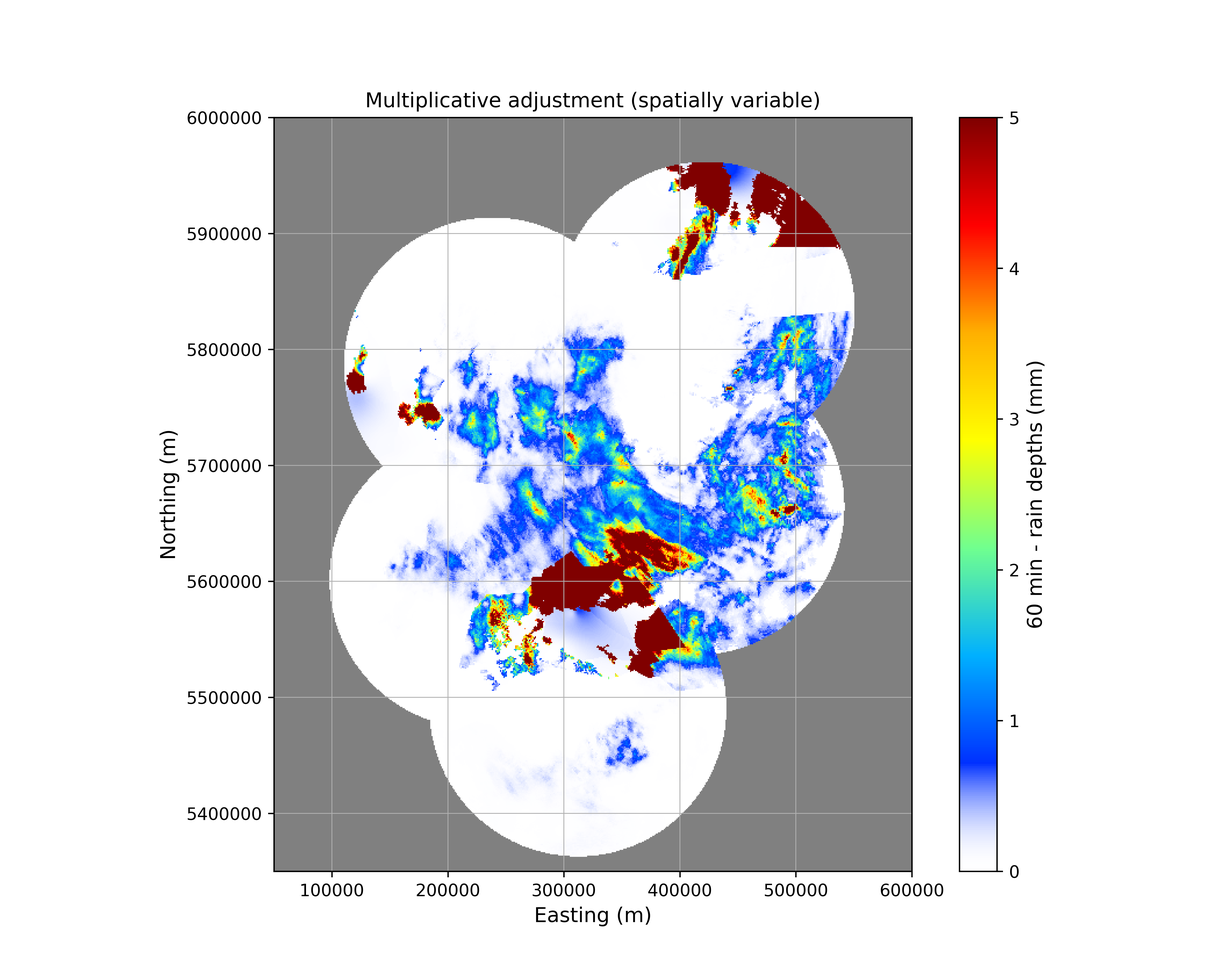
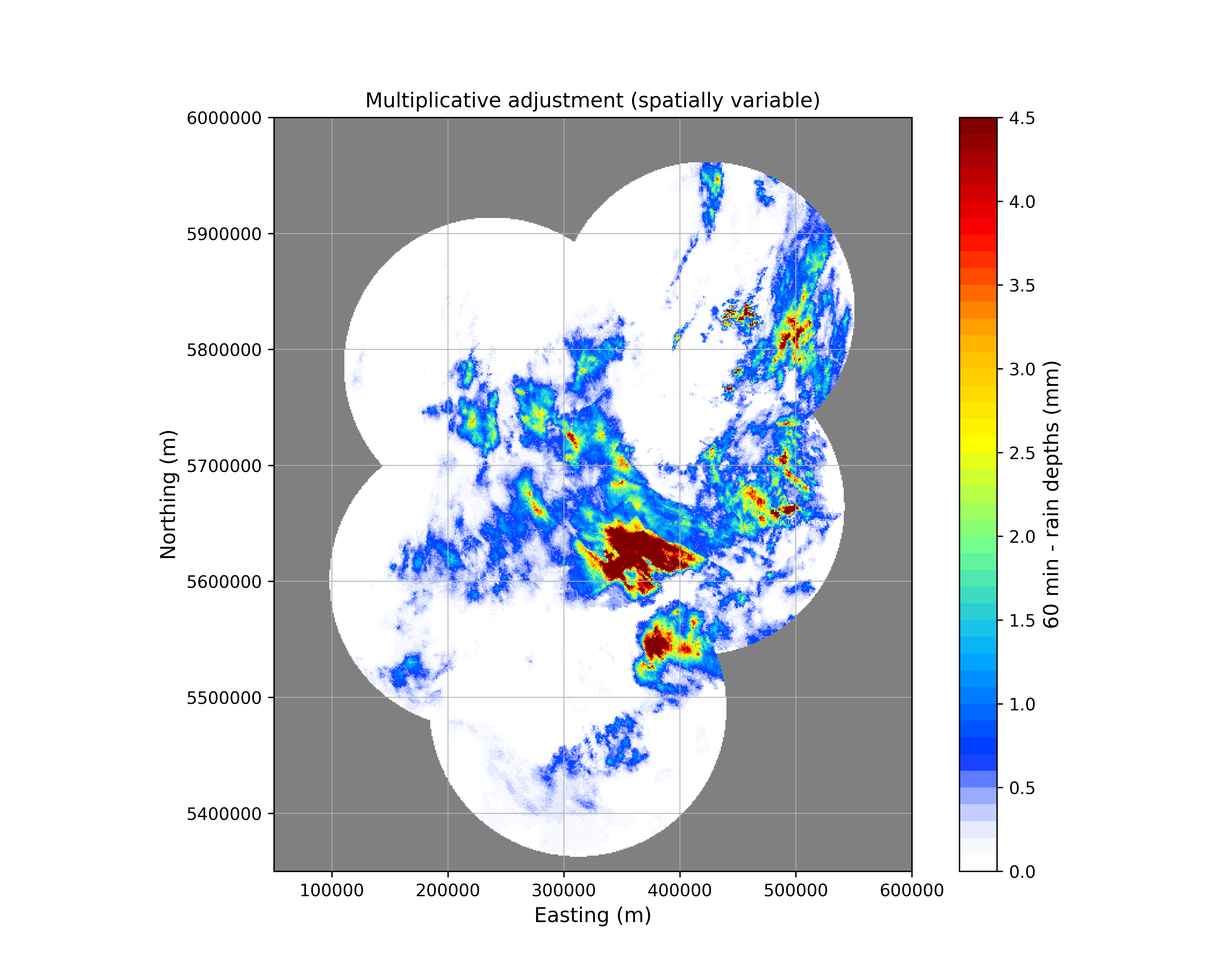
Add all_gauges list, put functions in func. Try parameters for adjustment

Changed region(s): [[0.2805, 0.1562, 0.7168, 0.8438], [0.8415, 0.375, 0.8727, 0.6562], [0.7792, 0.7812, 0.8415, 0.8438]]

diff --git a/code/example_1901091200.py b/code/example_1901091200.py
@@ -8,13 +8,11 @@ import numpy as np
 import wradlib as wrl
 import matplotlib.pylab as pl
 import matplotlib.pyplot as plt
-import wradlib.adjust as adjust
-import wradlib.verify as verify
 import wradlib.util as util
 from pyproj import Proj
 
 from colorbar import cm
-from func import get_depths, max_from_arrays
+from func import get_depths, max_from_arrays, plot_grid
 
 
 # Projections
@@ -47,6 +45,10 @@ ygrid = np.linspace(5350000, 6050000, 700)
 grid_xy = np.meshgrid(xgrid, ygrid)
 grid_xy = np.vstack((grid_xy[0].ravel(), grid_xy[1].ravel())).transpose()
 
+# Save grid information to files.
+np.savetxt("geodata/xgrid.txt", xgrid, fmt = "%.4f")
+np.savetxt("geodata/ygrid.txt", ygrid, fmt = "%.4f")
+
 def polar_to_utm(filename, radar_location_latlon):
     """
     Read data and calculate rain depths. 
@@ -76,46 +78,23 @@ for row in range(700):
             gridded_umd[row][col]=0
 
 # Merge radar domains.      
-def blending_radar_domains(domain, gridded_data):
-    """Choose element wise maximum. Keeps NaN's as NaN's if both are NaN."""
-    return max_from_arrays(domain, gridded_data)
-
 domain = np.empty((700,700))
 domain[:] = np.NaN
-domain = blending_radar_domains(domain, gridded_drs)
-domain = blending_radar_domains(domain, gridded_eis)
-domain = blending_radar_domains(domain, gridded_pro)
-domain = blending_radar_domains(domain, gridded_umd)
-domain = blending_radar_domains(domain, gridded_neu)
+domain = max_from_arrays(domain, gridded_drs)
+domain = max_from_arrays(domain, gridded_eis)
+domain = max_from_arrays(domain, gridded_pro)
+domain = max_from_arrays(domain, gridded_umd)
+domain = max_from_arrays(domain, gridded_neu)
 radar = domain
-
-# Save grid information to files.
-np.savetxt("geodata/xgrid.txt", xgrid, fmt = "%.4f")
-np.savetxt("geodata/ygrid.txt", ygrid, fmt = "%.4f")
-np.savetxt("geodata/griddata_60min.txt", radar, fmt = "%.4f")
+np.savetxt("geodata/radar.txt", radar, fmt = "%.4f")
 
 # Plot composite.
-fig = pl.figure(figsize=(10,8))
-ax = pl.subplot(111, aspect="equal") # aspect=111/71
-pm = pl.pcolormesh(xgrid, ygrid, radar, cmap=cm, vmax=4.5)
-cbar = pl.colorbar(pm)
-cbar.set_label("60 min - rain depths (mm)", fontsize=12)
-cm.set_bad(color='grey')
-ax.ticklabel_format(useOffset=False, style='plain')
-pl.xlabel("Easting (m)")
-pl.ylabel("Northing (m)")
-# pl.xlim(min(xgrid), max(xgrid))
-# pl.ylim(min(ygrid), max(ygrid))
-pl.xlim(50000, 600000)
-pl.ylim(min(ygrid), 6000000)
-pl.grid(lw=0.5)
-pl.xlabel("Easting", fontsize=12)
-pl.ylabel("Northing", fontsize=12)
-pl.title('09-01-2019 12:00 UTC\nDWD RADAR composite\nUTM zone 33N (EPSG 32633)', fontsize=12)
-pl.savefig(f"images/composite_{filename_drs[15:25]}_utm60min", dpi=600)
+plot_grid(radar, xgrid, ygrid, plottitle='09-01-2019 12:00 UTC\nDWD RADAR composite\nUTM zone 33N (EPSG 32633)', 
+          filename=f"composite_{filename_drs[15:25]}_utm60min")
 
-# Gauges of interest
+# Gauge lists.
 gauges_in_domain = ['00029', '00046', '00053', '00073', '00087', '00096', '00103', '00118', '00124', '00131', '00151', '00152', '00164', '00191', '00198', '00213', '00222', '00227', '00240', '00246', '00282', '00287', '00294', '00303', '00314', '00320', '00336', '00359', '00360', '00378', '00379', '00399', '00400', '00403', '00410', '00420', '00427', '00430', '00433', '00445', '00504', '00505', '00542', '00550', '00551', '00567', '00589', '00622', '00630', '00633', '00656', '00662', '00714', '00721', '00735', '00753', '00775', '00797', '00807', '00812', '00814', '00815', '00840', '00848', '00853', '00863', '00867', '00874', '00880', '00885', '00896', '00962', '00966', '00970', '00974', '00991', '01001', '01039', '01048', '01050', '01051', '01052', '01067', '01095', '01107', '01119', '01139', '01158', '01161', '01166', '01170', '01207', '01210', '01270', '01278', '01279', '01282', '01297', '01320', '01332', '01350', '01357', '01358', '01392', '01411', '01435', '01441', '01458', '01473', '01497', '01511', '01526', '01542', '01544', '01573', '01578', '01587', '01605', '01607', '01612', '01684', '01689', '01691', '01717', '01721', '01735', '01744', '01770', '01793', '01801', '01810', '01830', '01832', '01846', '01847', '01848', '01869', '01900', '01957', '01997', '02011', '02012', '02014', '02039', '02044', '02064', '02066', '02119', '02152', '02171', '02174', '02175', '02233', '02252', '02261', '02274', '02278', '02294', '02323', '02372', '02376', '02409', '02410', '02431', '02438', '02444', '02503', '02531', '02538', '02541', '02550', '02556', '02562', '02597', '02600', '02618', '02625', '02627', '02641', '02662', '02673', '02680', '02700', '02704', '02709', '02733', '02750', '02779', '02794', '02839', '02856', '02860', '02878', '02884', '02890', '02925', '02928', '02932', '02951', '02958', '02985', '02992', '02997', '03012', '03015', '03034', '03080', '03083', '03093', '03094', '03121', '03126', '03146', '03147', '03148', '03153', '03158', '03166', '03175', '03179', '03181', '03204', '03205', '03207', '03220', '03226', '03231', '03234', '03248', '03271', '03279', '03289', '03297', '03304', '03308', '03348', '03364', '03376', '03426', '03429', '03435', '03438', '03445', '03473', '03478', '03491', '03497', '03509', '03513', '03525', '03536', '03552', '03558', '03560', '03571', '03572', '03607', '03617', '03650', '03667', '03668', '03681', '03700', '03739', '03740', '03811', '03821', '03836', '03844', '03875', '03881', '03886', '03906', '03911', '03946', '03948', '03950', '03967', '03975', '03987', '03999', '04000', '04016', '04023', '04032', '04036', '04052', '04080', '04104', '04109', '04135', '04185', '04218', '04224', '04248', '04280', '04282', '04290', '04303', '04354', '04367', '04377', '04387', '04412', '04445', '04464', '04469', '04480', '04485', '04493', '04494', '04501', '04546', '04548', '04555', '04559', '04566', '04592', '04599', '04601', '04603', '04605', '04618', '04637', '04642', '04651', '04694', '04748', '04752', '04763', '04790', '04801', '04813', '04816', '04818', '04878', '04911', '04912', '04958', '04978', '04982', '04984', '04997', '05002', '05013', '05017', '05023', '05034', '05036', '05046', '05084', '05109', '05142', '05146', '05148', '05149', '05158', '05230', '05279', '05285', '05303', '05335', '05349', '05371', '05382', '05395', '05397', '05401', '05419', '05424', '05440', '05484', '05490', '05546', '05548', '05555', '05573', '05600', '05614', '05629', '05643', '05663', '05676', '05684', '05705', '05729', '05745', '05750', '05762', '05763', '05779', '05797', '05800', '05814', '05825', '05854', '05943', '06093', '06109', '06129', '06161', '06170', '06182', '06191', '06195', '06200', '06215', '06216', '06249', '06252', '06265', '06266', '06268', '06269', '06270', '06271', '06272', '06273', '06281', '06282', '06287', '06296', '06298', '06305', '06312', '06314', '06336', '06338', '06347', '07075', '07077', '07079', '07099', '07244', '07285', '07321', '07323', '07326', '07327', '07328', '07329', '07333', '07334', '07335', '07337', '07343', '07350', '07351', '07361', '07364', '07367', '07368', '07370', '07372', '07389', '07393', '07394', '07395', '07418', '07419', '07420', '07421', '07423', '07428', '07430', '07432', '07500', '13654', '13662', '13675', '13688', '13699', '13710', '13711', '13712', '13774', '13776', '13777', '14138', '14301', '15512', '15832', '15833', '15834', '15836', '15839', '15840', '15843', '15845', '19126', '19140', '19225', '19246', '19270', '19271', '19272', '19275', '19299', '19361', '19362']
+all_gauges = ['00003','00020','00029','00044','00046','00047','00053','00071','00073','00078','00087','00091','00096','00103','00118','00124','00130','00131','00142','00146','00150','00151','00152','00154','00158','00161','00164','00167','00183','00191','00194','00198','00200','00205','00211','00213','00216','00217','00222','00227','00232','00240','00246','00257','00259','00269','00275','00279','00282','00287','00292','00294','00298','00301','00303','00310','00312','00314','00316','00320','00323','00326','00330','00336','00342','00348','00357','00359','00360','00377','00378','00379','00384','00389','00390','00399','00400','00403','00410','00420','00427','00430','00433','00443','00445','00450','00460','00468','00479','00498','00504','00505','00522','00523','00535','00542','00550','00551','00554','00555','00561','00567','00589','00591','00596','00599','00603','00604','00613','00617','00622','00630','00633','00644','00653','00656','00662','00677','00684','00685','00691','00701','00704','00714','00721','00723','00730','00731','00732','00735','00753','00755','00757','00760','00775','00789','00791','00796','00797','00801','00807','00808','00812','00814','00815','00817','00837','00839','00840','00848','00853','00856','00857','00863','00867','00871','00874','00880','00885','00891','00896','00902','00917','00921','00922','00931','00933','00934','00942','00953','00961','00962','00963','00966','00970','00974','00977','00978','00979','00983','00985','00988','00989','00991','01001','01014','01018','01023','01024','01030','01039','01046','01048','01050','01051','01052','01055','01056','01067','01072','01078','01089','01093','01094','01095','01103','01107','01119','01130','01132','01139','01158','01161','01166','01170','01176','01197','01200','01207','01210','01214','01216','01219','01223','01224','01237','01239','01241','01246','01253','01255','01262','01266','01270','01278','01279','01282','01290','01297','01300','01303','01304','01313','01315','01320','01327','01332','01336','01343','01346','01350','01357','01358','01366','01392','01411','01420','01424','01435','01441','01443','01451','01458','01468','01473','01495','01497','01503','01511','01526','01538','01542','01544','01550','01559','01561','01573','01578','01580','01584','01587','01590','01595','01598','01602','01605','01607','01612','01639','01642','01645','01650','01669','01684','01689','01691','01694','01711','01717','01721','01735','01736','01744','01750','01757','01759','01766','01769','01770','01792','01793','01801','01803','01810','01813','01814','01827','01830','01832','01844','01846','01847','01848','01851','01863','01869','01870','01886','01888','01900','01937','01938','01950','01957','01964','01975','01981','01997','02011','02012','02014','02023','02027','02039','02044','02050','02051','02064','02066','02072','02074','02080','02088','02109','02110','02115','02119','02152','02159','02167','02170','02171','02174','02175','02184','02201','02211','02213','02222','02233','02236','02252','02254','02261','02272','02274','02278','02290','02292','02293','02294','02306','02319','02323','02329','02331','02355','02362','02372','02376','02387','02388','02405','02409','02410','02412','02415','02416','02429','02431','02438','02444','02453','02465','02473','02480','02483','02485','02486','02497','02500','02503','02518','02522','02531','02532','02538','02541','02542','02546','02550','02556','02559','02562','02564','02575','02577','02578','02595','02597','02600','02601','02618','02619','02625','02627','02629','02638','02641','02660','02662','02667','02673','02677','02680','02689','02700','02703','02704','02708','02709','02712','02718','02733','02734','02740','02749','02750','02759','02763','02779','02787','02792','02794','02810','02812','02814','02822','02825','02839','02843','02844','02850','02856','02860','02878','02880','02884','02885','02890','02900','02907','02925','02928','02932','02947','02951','02953','02958','02968','02985','02988','02992','02996','02997','02999','03012','03015','03023','03024','03028','03031','03032','03034','03042','03044','03080','03081','03083','03086','03093','03094','03098','03121','03126','03136','03137','03146','03147','03148','03153','03155','03158','03164','03166','03167','03175','03179','03190','03192','03196','03204','03205','03207','03215','03217','03220','03226','03231','03234','03238','03244','03247','03248','03257','03258','03263','03268','03271','03272','03278','03279','03280','03284','03287','03289','03293','03297','03304','03307','03308','03319','03321','03339','03340','03342','03348','03362','03364','03366','03376','03379','03402','03413','03418','03426','03429','03432','03435','03438','03440','03442','03443','03445','03448','03473','03478','03485','03490','03491','03497','03499','03509','03513','03519','03525','03527','03535','03536','03538','03540','03545','03552','03558','03560','03564','03571','03572','03584','03589','03591','03602','03607','03612','03616','03617','03621','03625','03631','03650','03660','03667','03668','03677','03679','03681','03690','03700','03704','03714','03722','03729','03730','03733','03734','03739','03740','03761','03791','03795','03802','03811','03815','03820','03821','03836','03844','03848','03849','03853','03857','03875','03881','03886','03897','03904','03906','03911','03913','03919','03925','03927','03939','03945','03946','03948','03950','03960','03965','03967','03969','03972','03975','03987','03999','04000','04016','04017','04023','04024','04026','04032','04036','04039','04052','04063','04065','04078','04080','04090','04094','04101','04104','04109','04112','04127','04132','04134','04135','04150','04154','04159','04160','04167','04169','04175','04177','04185','04189','04211','04218','04219','04224','04230','04248','04251','04261','04271','04275','04280','04282','04287','04288','04290','04294','04300','04301','04303','04308','04310','04313','04315','04323','04336','04349','04351','04352','04354','04367','04368','04371','04374','04377','04387','04393','04400','04405','04411','04412','04413','04441','04445','04464','04466','04469','04480','04485','04488','04490','04493','04494','04501','04508','04546','04548','04555','04559','04560','04566','04567','04579','04592','04594','04599','04600','04601','04602','04603','04605','04617','04618','04623','04625','04637','04641','04642','04650','04651','04655','04666','04672','04683','04692','04694','04703','04704','04706','04709','04710','04712','04719','04741','04745','04748','04752','04755','04760','04763','04790','04801','04803','04816','04818','04827','04841','04849','04850','04857','04858','04878','04881','04883','04887','04896','04911','04912','04920','04926','04928','04931','04946','04958','04978','04982','04984','04997','05000','05002','05009','05013','05014','05017','05023','05029','05034','05036','05046','05047','05055','05057','05058','05059','05064','05084','05086','05097','05099','05100','05103','05109','05111','05123','05132','05133','05142','05146','05148','05149','05155','05158','05161','05162','05169','05171','05174','05187','05206','05209','05225','05227','05229','05230','05240','05262','05263','05275','05276','05277','05279','05280','05285','05294','05297','05300','05303','05335','05347','05349','05360','05371','05374','05382','05395','05397','05401','05404','05405','05416','05419','05424','05426','05433','05435','05440','05444','05453','05468','05470','05480','05484','05490','05501','05508','05511','05513','05516','05518','05524','05538','05541','05542','05546','05548','05555','05559','05562','05573','05600','05614','05616','05619','05625','05629','05635','05643','05646','05663','05664','05676','05678','05684','05688','05692','05699','05705','05711','05717','05719','05721','05724','05729','05731','05732','05733','05745','05750','05758','05762','05763','05767','05779','05793','05797','05800','05814','05822','05825','05839','05840','05854','05856','05871','05906','05930','05941','05943','05985','05986','05987','05988','05989','05990','05991','05992','05993','05994','06041','06042','06043','06044','06045','06046','06047','06048','06049','06050','06051','06052','06053','06058','06060','06061','06064','06067','06093','06100','06105','06109','06129','06157','06158','06159','06161','06163','06169','06170','06182','06186','06190','06191','06195','06197','06199','06200','06201','06203','06215','06216','06217','06242','06243','06244','06245','06246','06247','06249','06252','06255','06256','06257','06258','06259','06260','06262','06263','06264','06265','06266','06268','06269','06270','06271','06272','06273','06275','06276','06279','06280','06281','06282','06283','06284','06285','06286','06287','06288','06290','06293','06294','06295','06296','06297','06298','06299','06300','06301','06303','06305','06307','06310','06312','06313','06314','06315','06316','06317','06318','06319','06320','06321','06322','06323','06324','06325','06326','06327','06328','06329','06330','06331','06332','06333','06334','06336','06337','06338','06340','06341','06342','06343','06344','06346','06347','07075','07077','07078','07079','07099','07104','07105','07106','07135','07138','07139','07140','07187','07224','07226','07227','07228','07229','07230','07231','07233','07234','07235','07237','07238','07239','07240','07241','07242','07243','07244','07285','07287','07298','07319','07321','07322','07323','07324','07325','07326','07327','07328','07329','07330','07331','07333','07334','07335','07337','07341','07343','07344','07350','07351','07361','07364','07367','07368','07369','07370','07372','07373','07374','07375','07378','07380','07382','07389','07393','07394','07395','07396','07403','07410','07412','07418','07419','07420','07421','07423','07424','07425','07427','07428','07429','07430','07431','07432','07433','07434','07436','07487','07488','07489','07490','07491','07492','07493','07494','07495','07496','07497','07498','07499','07500','13654','13662','13669','13670','13671','13672','13674','13675','13687','13688','13689','13694','13695','13696','13698','13699','13700','13710','13711','13712','13713','13715','13716','13774','13776','13777','13778','13779','13780','13912','13918','13965','13968','14006','14007','14008','14009','14010','14011','14013','14014','14015','14016','14017','14018','14019','14020','14021','14022','14023','14024','14025','14026','14027','14028','14029','14030','14031','14032','14033','14034','14035','14036','14037','14038','14042','14052','14063','14065','14072','14108','14109','14138','14139','14142','14143','14144','14145','14146','14147','14148','14149','14150','14151','14152','14153','14154','14155','14156','14157','14158','14159','14164','14165','14166','14167','14168','14169','14170','14171','14172','14173','14174','14175','14176','14177','14178','14179','14180','14181','14182','14183','14184','14185','14186','14187','14301','14350','14351','15000','15003','15009','15011','15012','15013','15014','15015','15016','15039','15040','15045','15155','15156','15161','15170','15185','15187','15198','15201','15207','15212','15249','15444','15448','15478','15490','15512','15514','15517','15523','15555','15561','15569','15570','15810','15822','15831','15832','15834','15835','15838','15839','15840','15842','15843','15845','15850','15851','15930','15958','15986','15988','15989','19100']
 
 # Read gauge data.
 def latlon_to_utm33N(lon, lat):
@@ -139,7 +118,7 @@ for file in gauge_files:
                 line_split = [x.strip() for x in line.split(';')]
                 if "2019010912" in line_split[1]:
                     g_id = line_split[0].zfill(5)
-                    if g_id in gauges_in_domain:
+                    if g_id in all_gauges:
                         gaugedata["id"].append(g_id)
                         gaugedata["prec_mm"].append(float(line_split[3]))
 
@@ -192,7 +171,7 @@ pl.xlim(50000, 600000)
 pl.ylim(min(ygrid), 6000000)
 pl.grid(lw=0.5)
 pl.title('09-01-2019 12:00 UTC\nDWD gauge data\nUTM zone 33N (EPSG 32633)', fontsize=12)
-pl.savefig(f"images/gaugedata_{filename_drs[15:25]}_utm60min", dpi=600)
+pl.savefig(f"images/gaugedata_1901091200_60min", dpi=600)
 
 # Interpolate gauge array.
 all_indices = ([[x, y] for x in range(700) for y in range(700)])
@@ -205,7 +184,7 @@ gauge_array_int = gauge_array_int.reshape((700,700))
 # Plot interpolated gauges.
 fig = pl.figure(figsize=(10,8))
 ax = pl.subplot(111, aspect="equal")
-pm = pl.pcolormesh(xgrid, ygrid, gauge_array_int, cmap=cm, vmax=max(gaugedata["prec_mm"]))
+pm = pl.pcolormesh(xgrid, ygrid, gauge_array_int, cmap=cm, vmin=0, vmax=max(gaugedata["prec_mm"]))
 cbar = pl.colorbar(pm)
 cm.set_bad(color='grey')
 cbar.set_label("60 min - rain depths (mm)", fontsize=12)
@@ -216,7 +195,7 @@ pl.xlim(50000, 600000)
 pl.ylim(min(ygrid), 6000000)
 pl.grid(lw=0.5)
 pl.title('09-01-2019 12:00 UTC\nDWD gauge data\nUTM zone 33N (EPSG 32633)', fontsize=12)
-pl.savefig(f"images/gaugedata_{filename_drs[15:25]}_utm60min_interpol_cub", dpi=600)
+pl.savefig(f"images/gaugedata_1901091200_60min_interpol", dpi=600)
 
 # radar data: 1D-array, radar coords: 2D-array
 radar_1d = radar.reshape([700*700]) # 1D-array (700*700) for radar data
@@ -230,66 +209,72 @@ obs_coords = np.array([list(elem) for elem in obs_coords])
 print("number of obs:", len(obs))
 
 # Apply adjustment methods adn reshape 1D-array to 2D-array.
-addadjuster = adjust.AdjustAdd(obs_coords, radar_coords)
+addadjuster = wrl.adjust.AdjustAdd(obs_coords, radar_coords, nnear_raws=3, minval=0)
 addadjusted = addadjuster(obs, radar_1d)
 addadjusted_arr = addadjusted.reshape(gridshape)
 
-multadjuster = adjust.AdjustMultiply(obs_coords, radar_coords)
+multadjuster = wrl.adjust.AdjustMultiply(obs_coords, radar_coords, nnear_raws=3, minval=0.01)
 multadjusted = multadjuster(obs, radar_1d) 
 multadjusted_arr = multadjusted.reshape(gridshape)
 
-mfbadjuster = adjust.AdjustMFB(obs_coords, radar_coords)
+mfbadjuster = wrl.adjust.AdjustMFB(obs_coords, radar_coords)
 mfbadjusted = mfbadjuster(obs, radar_1d)
 mfbadjusted_arr = mfbadjusted.reshape(gridshape)
 
-mixadjuster = adjust.AdjustMixed(obs_coords, radar_coords)
+mixadjuster = wrl.adjust.AdjustMixed(obs_coords, radar_coords, nnear_raws=3, minval=0)
 mixadjusted = mixadjuster(obs, radar_1d)
 mixadjusted_arr = mixadjusted.reshape(gridshape)
 
-def plot_grid(data, plottitle, filename):
-    """ Plot gridded data."""
-    fig = pl.figure(figsize=(10, 8))
-    ax = pl.subplot(111, aspect="equal")
-    pl.xlim(min(xgrid), max(xgrid))
-    pl.ylim(min(ygrid), max(ygrid))
-    pm = ax.pcolormesh(xgrid, ygrid, data, cmap=cm, vmin=0, vmax=4.5)
-    cbar = pl.colorbar(pm)
-    cm.set_bad(color='grey')
-    cbar.set_label("60 min - rain depths (mm)", fontsize=12)
-    pl.xlabel("Easting (m)", fontsize=12)
-    pl.ylabel("Northing (m)", fontsize=12)
-    ax.ticklabel_format(useOffset=False, style='plain')
-    pl.xlim(50000, 600000)
-    pl.ylim(min(ygrid), 6000000)
-    pl.grid(lw=0.5)
-    pl.title(plottitle, fontsize=12)
-    # pl.savefig("images/"+filename, dpi=600)
-
 # Plot adjusted radar data.
-plot_grid(addadjusted_arr, "Additive adjustment (spatially variable)", "adjustment_add")
-plot_grid(multadjusted_arr, "Multiplicative adjustment (spatially variable)", "adjustment_mul")
-plot_grid(mfbadjusted_arr, "Additive adjustment (spatially uniform)", "adjustment_mfb")
-plot_grid(mixadjusted_arr, "Additive-multiplicative-mixed adjustment (spatially variable)", "adjustment_mixed")
+plot_grid(addadjusted_arr, xgrid, ygrid, "Additive adjustment (spatially variable)", "adjustment_add")
+plot_grid(multadjusted_arr, xgrid, ygrid,"Multiplicative adjustment (spatially variable)", "adjustment_mul")
+plot_grid(mfbadjusted_arr, xgrid, ygrid,"Multiplicative adjustment (spatially uniform)", "adjustment_mfb")
+plot_grid(mixadjusted_arr, xgrid, ygrid,"Additive-multiplicative-mixed adjustment (spatially variable)", "adjustment_mixed")
 
 # Plot errors.
-plot_grid(addadjusted_arr - radar, "Additive error (spatially variable)", "adjustment_add_diff")
-plot_grid(multadjusted_arr - radar, "Multiplicative error (spatially variable)", "adjustment_mul_diff")
-plot_grid(mfbadjusted_arr - radar, "adjustment_mfb_diff (spatially uniform)", "adjustment_mfb_diff")
-plot_grid(mixadjusted_arr - radar, "Additive-multiplicative-mixed error (spatially variable)", "adjustment_mixed_diff")
+plot_grid(addadjusted_arr - radar, xgrid, ygrid,"Additive error (spatially variable)", "adjustment_add_diff")
+plot_grid(multadjusted_arr - radar, xgrid, ygrid,"Multiplicative error (spatially variable)", "adjustment_mul_diff")
+plot_grid(mfbadjusted_arr - radar, xgrid, ygrid,"adjustment_mfb_diff (spatially uniform)", "adjustment_mfb_diff")
+plot_grid(mixadjusted_arr - radar, xgrid, ygrid,"Additive-multiplicative-mixed error (spatially variable)", "adjustment_mixed_diff")
 
-# Evaluation
+# Cumulative distribution function of gauges and radar.
 fig = pl.figure(figsize=(10, 6))
-n_gauges = plt.hist(obs, 200, density=True, histtype="step", cumulative=True, label="gauges", log=False, linewidth=1.5)
-n_radar = plt.hist(radar_1d, 200, density=True, histtype="step", cumulative=True, label="raw radar", log=False, linewidth=1.5)
-n_add = plt.hist(addadjusted, 200, density=True, histtype="step", cumulative=True, label="add (var)", log=False, linewidth=1.5)
-n_mul = plt.hist(multadjusted, 200, density=True, histtype="step", cumulative=True, label="mul (var)", log=False, linewidth=1.5)
-n_mulconst = plt.hist(mfbadjusted, 200, density=True, histtype="step", cumulative=True, label="mul (const)", log=False, linewidth=1.5)
-n_mix = plt.hist(mixadjusted, 200, density=True, histtype="step", cumulative=True, label="add-mul-mix (var)", log=False, linewidth=1.5)
+n_gauges = plt.hist(obs, 50, density=True, histtype="step", cumulative=True, label="gauges", log=False, linewidth=1.5)
+n_radar = plt.hist(np.round(radar_1d, decimals=1), 50, density=True, histtype="step", cumulative=True, label="raw radar", log=False, linewidth=1.5)
 plt.legend(loc="lower right")
 plt.grid()
 plt.xlim([0,4.5])
 plt.ylim([0.4,1])
-plt.title("precipitation CDF of raw radar data and different adjustment methods", fontsize=12)
-plt.savefig("images/adjustment_eval", dpi=600)
+plt.xlabel("Precipitation [mm]", fontsize=12)
+plt.ylabel("CDF", fontsize=12)
+plt.savefig("images/adjustment_eval1", dpi=600)
+
+# Cumulative distribution function of gauges and adjustment methods.
+fig = pl.figure(figsize=(10, 6))
+n_radar = plt.hist(np.round(radar_1d, decimals=1), 200, density=True, histtype="step", cumulative=True, label="raw radar", log=False, linewidth=1.5)
+n_gauges = plt.hist(obs, 200, density=True, histtype="step", cumulative=True, label="gauges", log=False, linewidth=1.5)
+n_add = plt.hist(np.round(addadjusted, decimals=1), 200, density=True, histtype="step", cumulative=True, label="add (var)", log=False, linewidth=1.5)
+n_mul = plt.hist(np.round(multadjusted, decimals=1), 200, density=True, histtype="step", cumulative=True, label="mul (var)", log=False, linewidth=1.5)
+n_mulconst = plt.hist(np.round(mfbadjusted, decimals=1), 200, density=True, histtype="step", cumulative=True, label="mul (const)", log=False, linewidth=1.5)
+n_mix = plt.hist(np.round(mixadjusted, decimals=1), 200, density=True, histtype="step", cumulative=True, label="add-mul-mix (var)", log=False, linewidth=1.5)
+plt.legend(loc="lower right")
+plt.grid()
+plt.xlim([0,4.5])
+plt.ylim([0.4,1])
+plt.xlabel("Precipitation [mm]", fontsize=12)
+plt.ylabel("CDF", fontsize=12)
+plt.savefig("images/adjustment_eval2", dpi=600)
+
+# Cumulative distribution function of errors.
+fig = pl.figure(figsize=(10, 6))
+plt.hist(np.round(addadjusted - radar_1d, decimals=1), 100, density=True, label="add error", log=False, linewidth=1.5)
+plt.hist(np.round(multadjusted - radar_1d, decimals=1), 100, density=True, label="mul error", log=False, linewidth=1.5)
+plt.hist(np.round(mixadjusted - radar_1d, decimals=1), 100, density=True, label="mix error", log=False, linewidth=1.5)
+plt.legend(loc="lower right")
+plt.grid()
+plt.xlim([-2,2])
+plt.xlabel("radar error [mm]", fontsize=12)
+plt.ylabel("CDF", fontsize=12)
+plt.savefig("images/adjustment_eval3", dpi=600)
 
 # print(rmse(n_gauges, n_add), rmse(n_gauges, n_mul), rmse(n_gauges, n_mulconst), rmse(n_gauges, n_mix))

diff --git a/code/func.py b/code/func.py
@@ -139,6 +139,7 @@ def plot_raindepths(depths, filename):
     # pl.savefig(f"images/radar_dx_{site_abb}_{filename[15:25]}_raindepths.png", dpi=600)
     return 0
 
+
 def max_from_arrays(array1, array2):
     """Choose element wise maximum. Keeps NaN's as NaN's if both are NaN."""
     if array1.shape == array2.shape:
@@ -152,17 +153,23 @@ def max_from_arrays(array1, array2):
         raise ValueError("Arrays' shape don't match.") 
     return newarray
 
-# def rmse(target, predict):
-#     l = []
-#     for i in range(len(target)):
-#         l.append(math.pow((target[i] - predict[i]),2))
-#     return math.sqrt(np.mean(l))
+# def blending_radar_domains(domain, gridded_data):
+#     """Choose element wise maximum. Keeps NaN's as NaN's if both are NaN."""
+#     return max_from_arrays(domain, gridded_data)
 
-def frequency(feature_list, bin_number, bin_width):  
-    """ binning function. bin_number includes one for zero and one for infinity """
-    frequency_list = [0] * bin_number
-    for i in feature_list:
-        index = math.ceil(i/bin_width)
-        index = min(index, len(frequency_list)-1)
-        frequency_list[index]+=1
-    return frequency_list
+def plot_grid(data, xgrid, ygrid, plottitle, filename):
+    """ Plot gridded data."""
+    fig = pl.figure(figsize=(10, 8))
+    ax = pl.subplot(111, aspect="equal")
+    pm = ax.pcolormesh(xgrid, ygrid, data, cmap=cm, vmin=0, vmax=4.5)
+    cbar = pl.colorbar(pm)
+    cm.set_bad(color='gray')
+    cbar.set_label("60 min - rain depths (mm)", fontsize=12)
+    pl.xlabel("Easting (m)", fontsize=12)
+    pl.ylabel("Northing (m)", fontsize=12)
+    ax.ticklabel_format(useOffset=False, style='plain')
+    pl.xlim(50000, 600000)
+    pl.ylim(min(ygrid), 6000000)
+    pl.grid(lw=0.5)
+    pl.title(plottitle, fontsize=12)
+    pl.savefig("images/"+filename, dpi=600)
